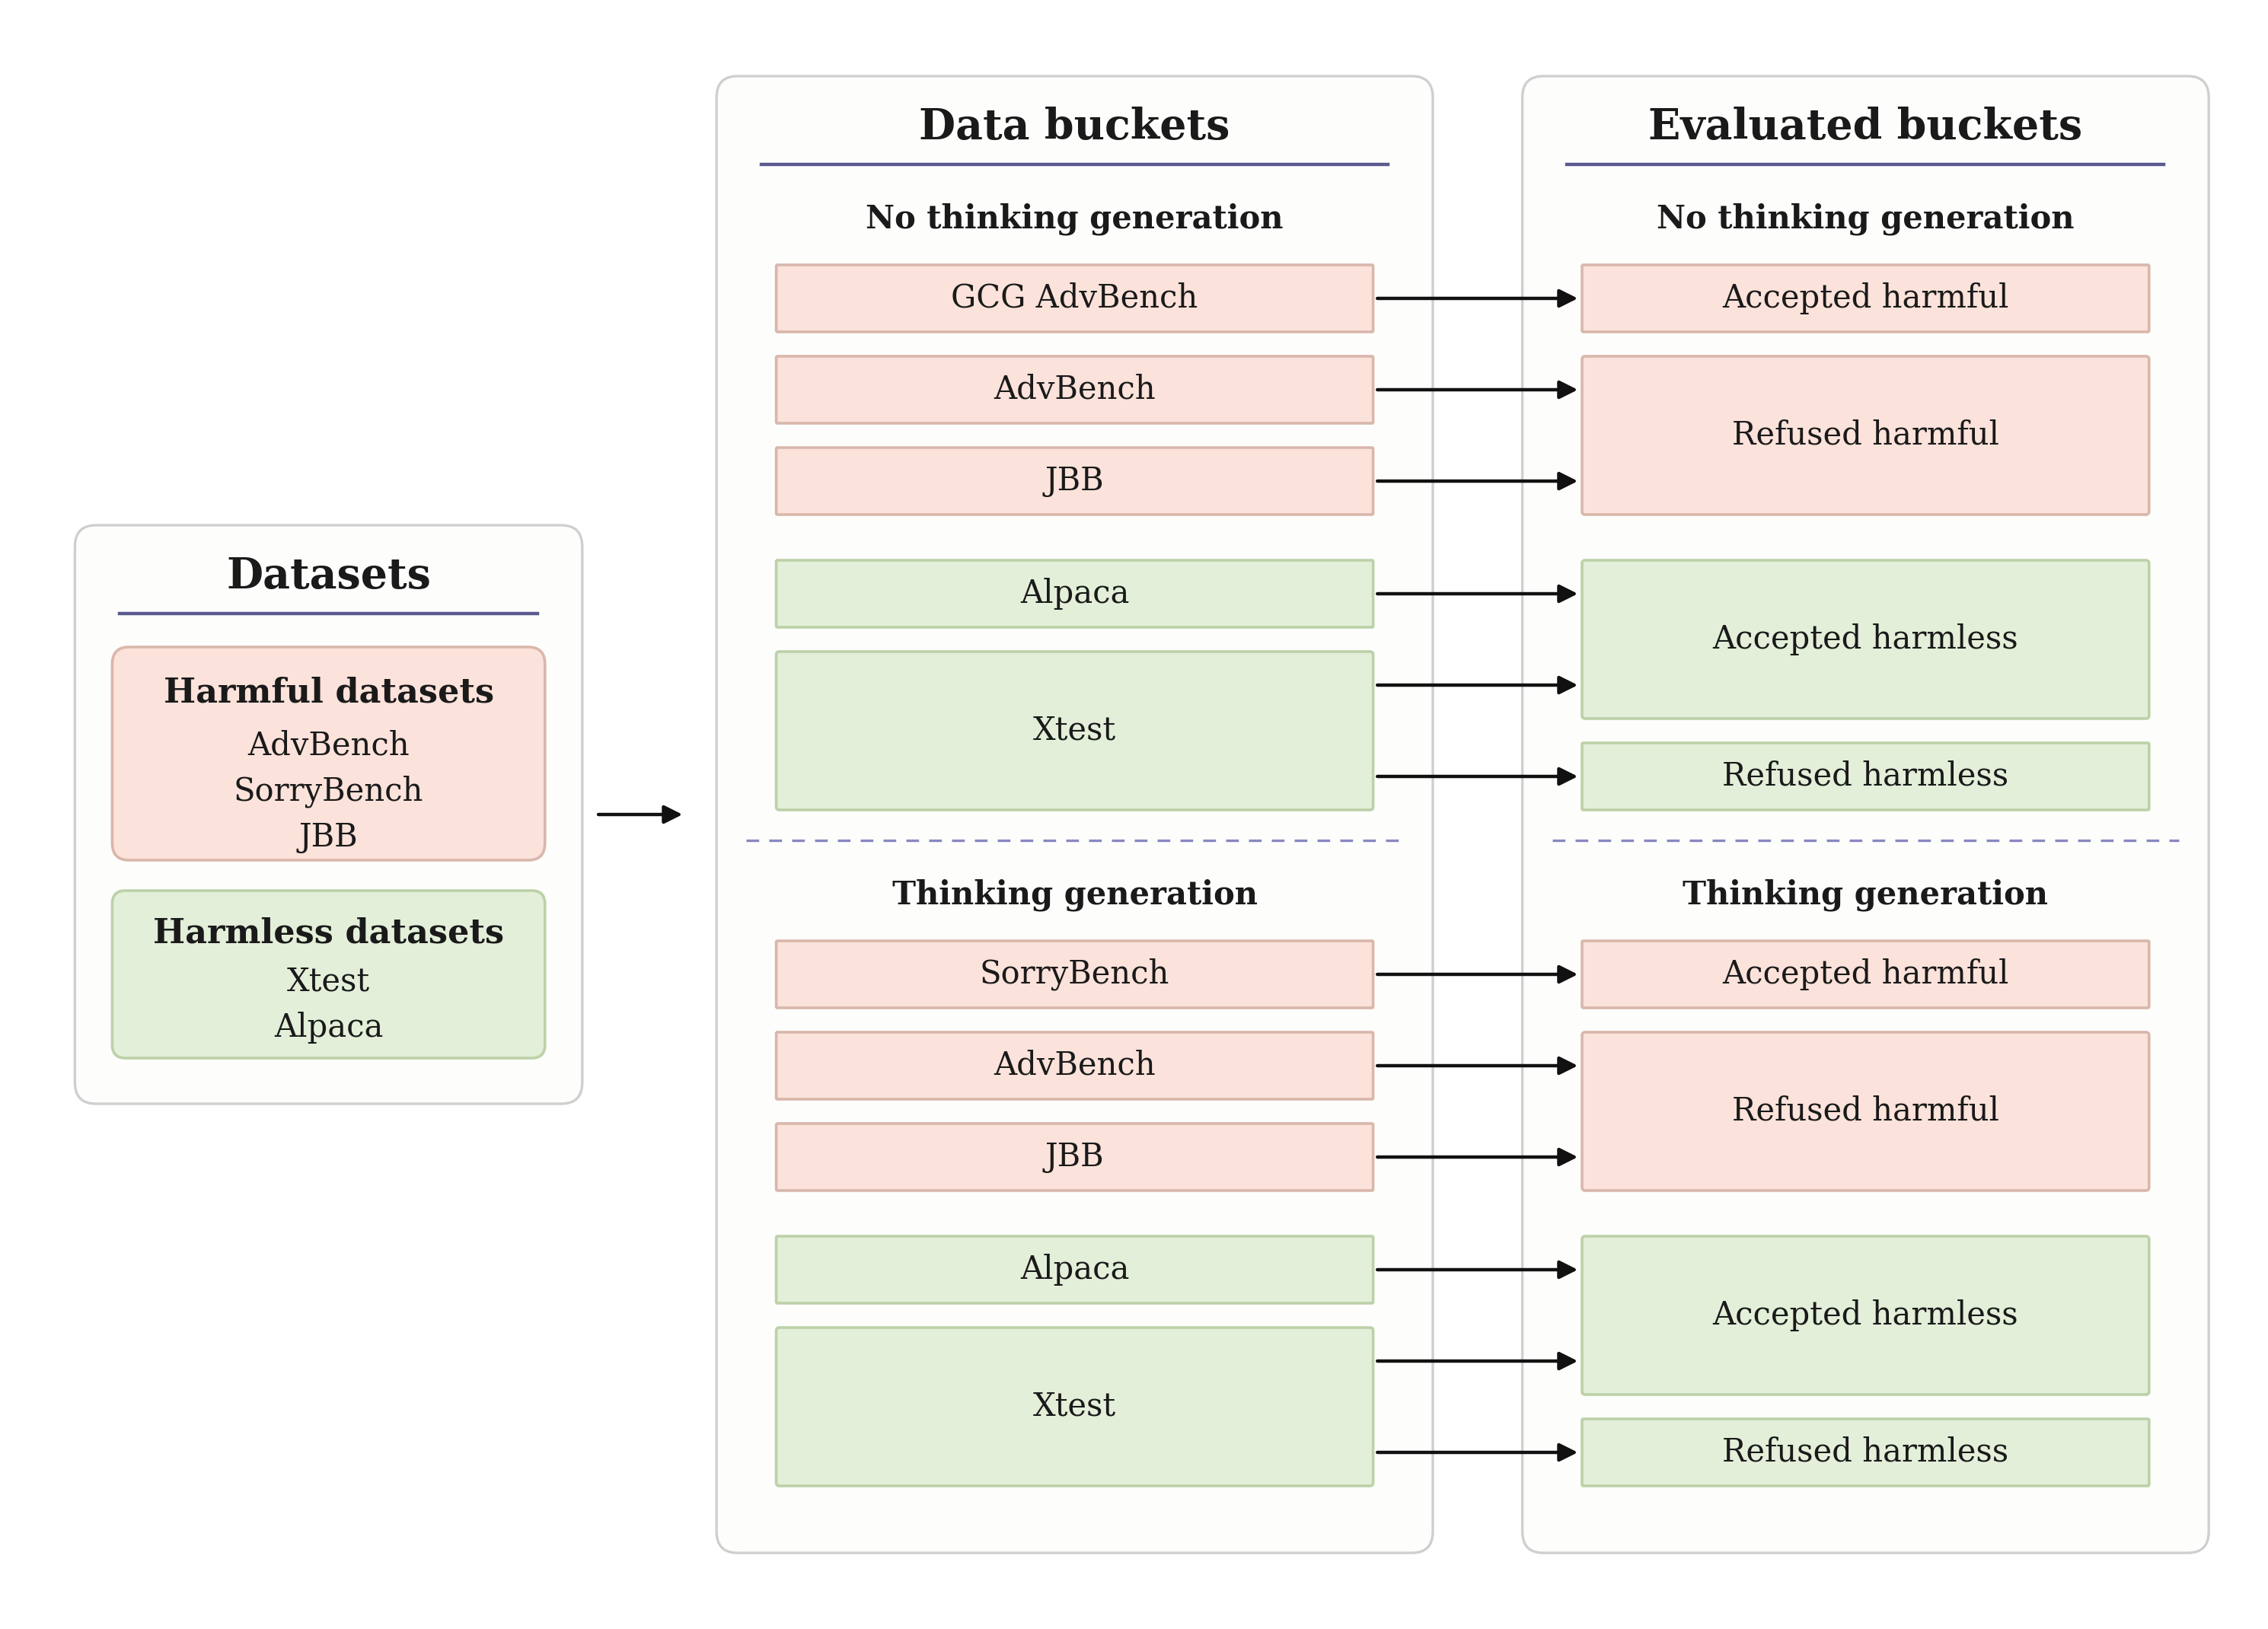
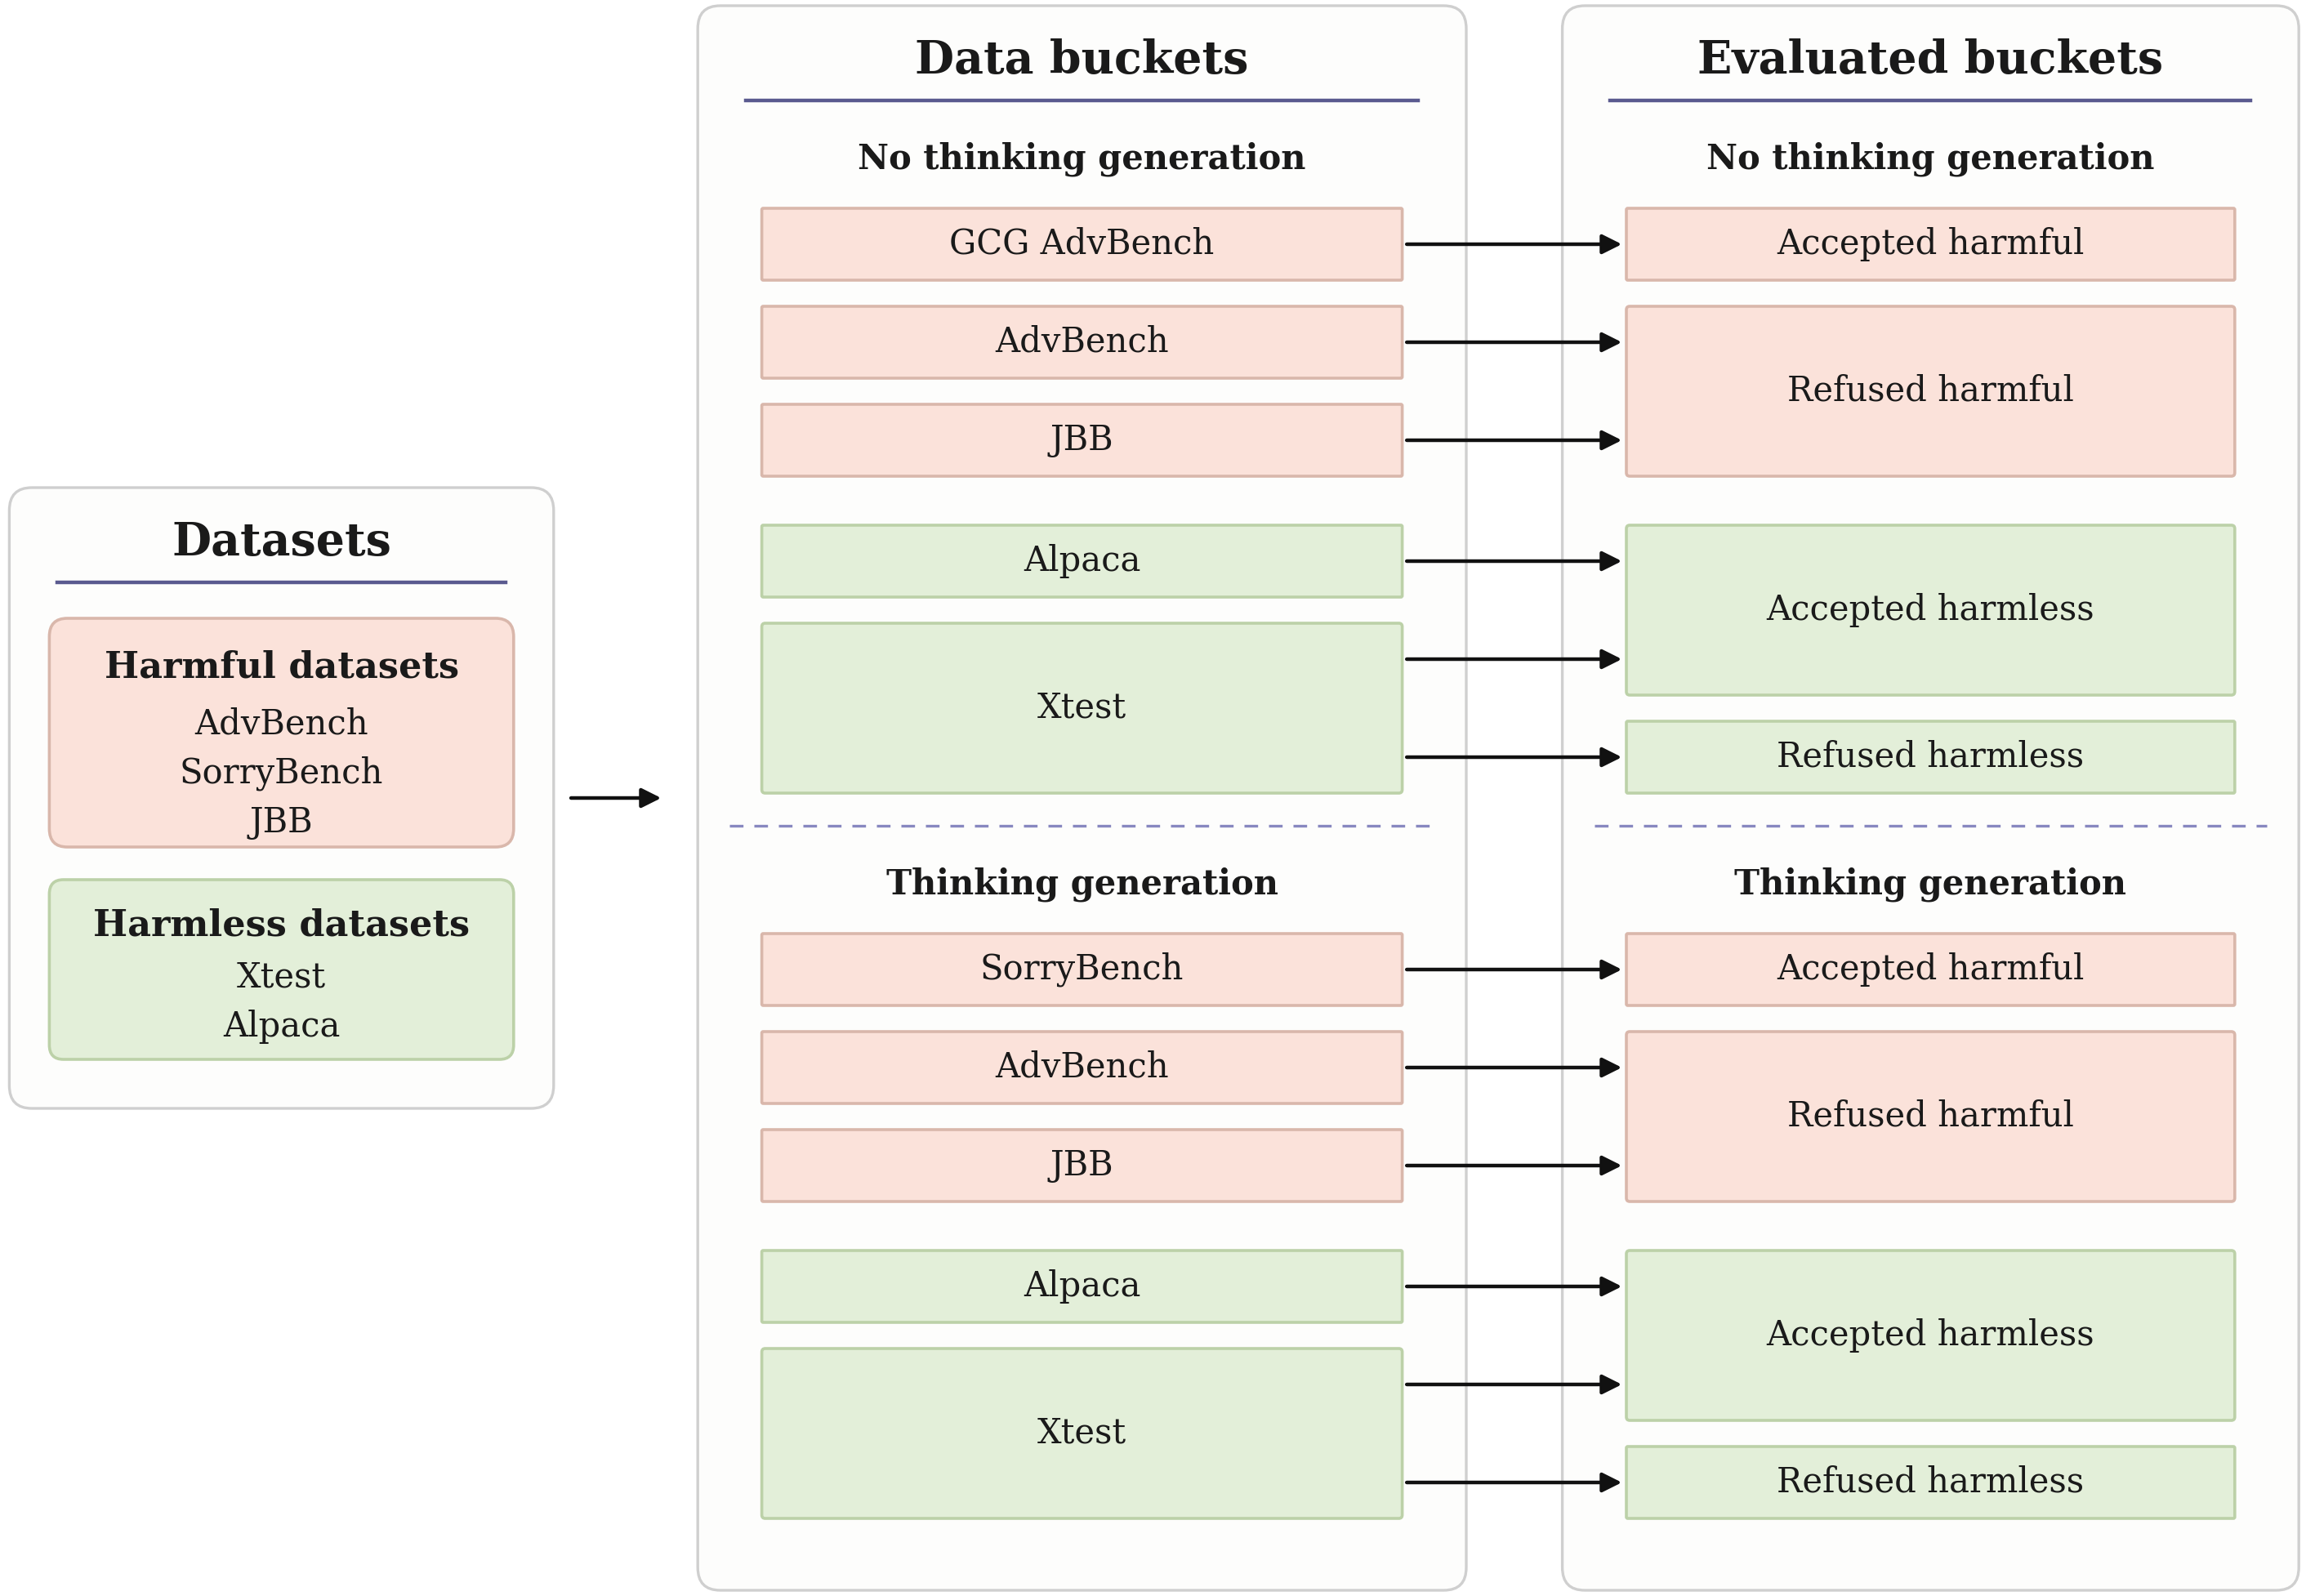
update report

diff --git a/report/example_paper.tex b/report/example_paper.tex
@@ -11,6 +11,23 @@
 \usepackage{graphicx}
 \usepackage{subfigure}
 \usepackage{booktabs} % for professional tables
+\usepackage{tikz}
+
+% Keep appendix floats from drifting onto mostly empty pages.
+\renewcommand{\topfraction}{0.95}
+\renewcommand{\dbltopfraction}{0.95}
+\renewcommand{\textfraction}{0.05}
+\renewcommand{\floatpagefraction}{0.8}
+\renewcommand{\dblfloatpagefraction}{0.8}
+\setcounter{topnumber}{5}
+\setcounter{dbltopnumber}{5}
+\setcounter{totalnumber}{8}
+\setlength{\textfloatsep}{8pt plus 2pt minus 2pt}
+\setlength{\dbltextfloatsep}{8pt plus 2pt minus 2pt}
+\setlength{\floatsep}{6pt plus 2pt minus 2pt}
+\clubpenalty=10000
+\widowpenalty=10000
+\displaywidowpenalty=10000
 
 % hyperref makes hyperlinks in the resulting PDF.
 % If your build breaks (sometimes temporarily if a hyperlink spans a page)
@@ -54,8 +71,8 @@
 
 % Todonotes is useful during development; simply uncomment the next line
 %    and comment out the line below the next line to turn off comments
-%\usepackage[disable,textsize=tiny]{todonotes}
-\usepackage[textsize=tiny]{todonotes}
+\usepackage[disable,textsize=tiny]{todonotes}
+%\usepackage[textsize=tiny]{todonotes}
 \usetikzlibrary{arrows.meta}
 
 
@@ -91,13 +108,12 @@
 
 
 \begin{abstract}
-Recent work suggests that safety behavior in language models is not governed by a single latent signal: models can encode whether a request is harmful separately from whether they refuse it. We study whether this separation persists in reasoning or ``thinking'' models, where a chain of thought intervenes between the user request and the final answer. Across Qwen3.5 thinking, non-thinking, and stripped-template settings, we find that refusal behavior remains strong on harmful prompts while harmless over-refusal remains low. At the representation level, the harmfulness/refusal lens continues to organize model behavior, but refusal-related information is less cleanly localized at a single post-instruction boundary and instead interacts with think-template and reasoning positions. These results suggest that harmfulness/refusal separation remains useful for reasoning models, while simple single-token accounts of refusal become incomplete.
+Recent work suggests that safety behavior in language models is not governed by a single latent signal: models can encode whether a request is harmful separately from whether they refuse it. We study whether this separation persists in reasoning models, where a chain of thought intervenes between the user request and the final answer. Across Qwen3.5 thinking, non-thinking, and stripped-template settings, we find that refusal behavior remains strong on harmful prompts while harmless over-refusal remains low. At the representation level, the harmfulness/refusal lens continues to organize model behavior, but refusal-related information is less cleanly localized at a single post-instruction boundary and instead interacts with think-template and reasoning positions. These results suggest that harmfulness/refusal separation remains useful for reasoning models, while simple single-token accounts of refusal become incomplete.
 \end{abstract}
 
 \section{Introduction}
 
-Safety-aligned large language models (LLMs) are expected to answer benign requests while refusing harmful ones. Failures in either direction matter: under-refusal creates unsafe compliance, while over-refusal blocks useful benign requests \citep{wang2024surgical, maskey2026overrefusal}. Prior work often assumes that harmfulness is encoded by the
-refusal direction \citep{arditi2024refusal}, but Zhao J. showed that LLMs encode harmfulness and refusal separately on instruct models \citep{zhao2025harmfulness}. 
+Safety-aligned large language models (LLMs) are expected to answer benign requests while refusing harmful ones. Failures in either direction matter: under-refusal creates unsafe compliance, while over-refusal blocks useful benign requests \citep{wang2024surgical, maskey2026overrefusal}. Prior work often treats harmfulness as closely tied to the refusal direction \citep{arditi2024refusal}. In contrast, \citet{zhao2025harmfulness} show that LLMs encode harmfulness and refusal separately in instruct models.
 
 Instruct models are trained to expect a chat template in order to recognize messages; Figure \ref{fig:tokens} illustrates the chat template for different configurations on Qwen3.5 \citep{qwen35}. In this setting, the authors define $t_{\text{inst}}$ as the last token of the user query, and $t_{\text{post-inst}}$ as the last token of the prompt tokens. After finding that stripping the $t_{\text{post-inst}}$ token induces 22\% more accepted harmful queries, the authors conducted several experiments to show that the $t_{\text{inst}}$ token's activations encode harmfulness to a greater magnitude, whereas the $t_{\text{post-inst}}$ token encodes refusal to a greater magnitude. It was later causally shown that these two directions are distinct \citep{zhao2025harmfulness}.
 
@@ -112,40 +128,43 @@ Instruct models are trained to expect a chat template in order to recognize mess
 
 Reasoning models make this picture less straightforward. A thinking model may identify harmfulness early, reason about policy or intent during its CoT, and only later decide how to answer. This raises the question we study: \textbf{does harmfulness/refusal separation still hold in thinking models, and where does refusal live once reasoning tokens are introduced?} 
 
-For this matter, we search on thinking models on two different generation configurations: generation with a reasoning trace and generation without reasoning trace. Figure \ref{fig:tokens} rows a and b show the tokenizer template for these two configurations.
+We therefore evaluate thinking models under two generation configurations: generation with a reasoning trace and generation without a reasoning trace. Figure~\ref{fig:tokens} shows the tokenizer template for these configurations.
+
+\section{Related Work}
+
+\textbf{Activation steering and refusal directions.} Work on activation steering shows that behaviorally meaningful directions can be extracted from hidden states and used to modify model behavior without retraining \citep{turner2023activation, rimsky2024steering}. In safety settings, \citet{arditi2024refusal} show that refusal in chat models can often be mediated by a single residual-stream direction. This provides a natural starting point for studying refusal as a geometric object in activation space.
+
+\textbf{Harmfulness, refusal, and over-refusal.} Our work directly builds on \citet{zhao2025harmfulness}, who argue that harmfulness and refusal are encoded separately rather than as a single safety axis. Related work complicates the geometry of refusal: refusal may occupy a concept cone or multiple directions rather than one vector \citep{wollschlager2025geometry, joad2026more}, and over-refusal can be task-dependent even when harmful refusal is comparatively low-dimensional \citep{wang2024surgical, maskey2026overrefusal}.
+
+\textbf{Reasoning models and CoT safety.} Recent work suggests that reasoning changes the refusal mechanism. \citet{yamaguchi2026where} show that where and whether reasoning models refuse depends on CoT content, and \citet{yang2026beyond} find that simple refusal steering becomes less reliable once CoT is fixed. Other work shows that reasoning can create new jailbreak surfaces or alter safety decisions during generation \citep{yong2026selfjailbreaking, zhao2026cothijacking, refusalcliff2025}. These findings motivate analyzing not only prompt-boundary tokens, but also thinking and answer-boundary positions.
+
+\textbf{Monitoring reasoning.} Finally, probe-based monitoring work asks whether unsafe final behavior can be predicted before a model finishes thinking \citep{predictalignment2025}. Steering-vector analyses of reasoning behavior more broadly also suggest that latent directions can reveal structure inside thinking models \citep{venhoff2025understanding}.
 
 
 \section{Datasets and Setup}
 
-In this section, we explain our experiments' datasets and configuration.
+To evaluate how reasoning traces alter the geometry of safety representations, we establish an evaluation pipeline across multiple dataset configurations. This setup allows us to empirically decouple the underlying recognition of intent from the subsequent generation of behavioral refusal.
 
-We first reproduced the original paper's experiments on Qwen2-7B \citep{yang2024qwen2} and Llama3-8B \citep{dubey2024llama3}. After that, we ran our experiments on Qwen3.5-9B. We use the sampling configuration recommended for the Qwen3.5 model family \citep{qwen35}. For the judge model, we use Qwen3.5-4B, with few-shot examples containing thinking traces to reduce overthinking \citep{qwen35}.
+We first reproduce the original paper's experiments on Qwen2-7B \citep{yang2024qwen2} and Llama3-8B \citep{dubey2024llama3}. We then run our main experiments on Qwen3.5-9B. We use the sampling configuration recommended for the Qwen3.5 model family \citep{qwen35}. For the judge model, we use Qwen3.5-4B, with few-shot examples containing thinking traces to reduce overthinking \citep{qwen35}.
 
-In order to extract the harmful and refusal activations, we collect 3 datasets containing harmful queries: AdvBench \citep{zou2023universal}, SorryBench \citep{xie2025sorrybench} and JBB \citep{chao2024jailbreakbench}, and 2 datasets containing harmless queries: XSTest \citep{rottger2024xstest} and Alpaca \citep{taori2023alpaca}. After that, we conduct the two-step pipeline shown in Figure \ref{fig:datasets}:
-
-\begin{figure*}[t]
-\centering
-\includegraphics[width=0.75\textwidth]{figures/dataset.png}
-\caption{Two-step dataset configuration pipeline for the experiments. The datasets are first subject to a manual bucketing based on thinking or non-thinking generation, and then classified using a programmatic and later LLM-judged approach. Red buckets represent datasets containing harmful queries, whereas green buckets represent datasets containing harmless queries.}
-\label{fig:datasets}
-\end{figure*}
+To extract harmfulness and refusal activations, we collect three datasets containing harmful queries: AdvBench \citep{zou2023universal}, SorryBench \citep{xie2025sorrybench}, and JailbreakBench (JBB) \citep{chao2024jailbreakbench}; and two datasets containing harmless queries: XSTest \citep{rottger2024xstest} and Alpaca \citep{taori2023alpaca}. We then apply the two-step pipeline shown in Figure~\ref{fig:datasets} in the appendix.
 
 \textbf{Dataset manual bucketing}. The datasets are first combined according to their behavior (harmful or harmless) and generation configuration (thinking or non-thinking).
 
 \textbf{Response evaluation}. After running the datasets' queries through the model, the generated responses are classified as refused (the model refused to answer due to safety concerns) or accepted (the model answered the query). The responses are first evaluated with a direct match against a common refusal sentence list, following prior refusal-direction evaluations \citep{arditi2024refusal, zhao2025harmfulness}. After this, a judge model evaluates only the opposing behavior buckets, which are more likely to be misclassified (accepted harmful and refused harmless buckets).
 
-We base our manual bucketing on the following basis: \emph{(i)} Qwen3.5 has been trained with extensive safety alignment, so unlike the instruct model experiments, the model refuses almost all queries, so we compute a GCG jailbreak \citep{zou2023universal} on the non-thinking generation with an ASR of 34\% using nanoGCG \citep{nanogcg2025} to get genuine harmful responses; \emph{(ii)} for the thinking generation, we use SorryBench, which contains soft-harmful queries that violate the model's safety guardrails but might not be as obscene as AdvBench and JBB; \emph{(iii)} for refused harmless responses, we only use XSTest because it contains harmful-looking harmless examples which might trick the model into a refusal.
+We base our manual bucketing on three observations: \emph{(i)} Qwen3.5 has been trained with extensive safety alignment, so unlike the instruct model experiments, it refuses almost all harmful queries; to obtain accepted harmful responses in the non-thinking setting, we therefore compute a GCG jailbreak \citep{zou2023universal} with an ASR of 34\% using nanoGCG \citep{nanogcg2025}; \emph{(ii)} for thinking generation, we use SorryBench, which contains soft-harmful queries that violate safety guardrails but are less explicit than AdvBench and JBB; \emph{(iii)} for refused harmless responses, we only use XSTest because it contains harmful-looking harmless examples that can trigger over-refusal.
 
 
 \section{Methodology}
 
-In this section we present the experiments 
+We now introduce our framework for isolating and measuring safety-relevant internal states within reasoning architectures. Building upon the geometric analysis proposed for standard instruct models \citep{zhao2025harmfulness}, we adapt the computation of concept representation scores to account for the extended token trajectories introduced by explicit internal chains of thought.
 
-\paragraph{Behavioral buckets.} We group examples by both prompt type and observed behavior: accepted harmful, refused harmful, accepted harmless, and refused harmless. These buckets let us distinguish whether a representation tracks input harmfulness, output refusal, or a mixture of both.
+\textbf{Behavioral buckets} We group examples by both prompt type and observed behavior: accepted harmful, refused harmful, accepted harmless, and refused harmless. These buckets let us distinguish whether a representation tracks input harmfulness, output refusal, or a mixture of both.
 
-\paragraph{Harmfulness and refusal scores.} Following the original paper, we compute cosine-difference scores between bucket means. The harmfulness score contrasts harmful and harmless anchors, while the refusal score contrasts refused and accepted anchors. For non-reasoning models these scores are naturally measured at $t_{\text{inst}}$ and $t_{\text{post-inst}}$. For thinking models, we extend this to a 25-slot layout covering the instruction boundary, think-template tokens, sampled CoT positions, the \texttt{</think>} boundary, and early answer tokens.
+\textbf{Harmfulness and refusal scores.} Following the original paper, we compute cosine-difference scores between bucket means. The harmfulness score contrasts harmful and harmless anchors, while the refusal score contrasts refused and accepted anchors. For non-reasoning models these scores are naturally measured at $t_{\text{inst}}$ and $t_{\text{post-inst}}$. For thinking models, we extend this to a 25-slot layout covering the instruction boundary, think-template tokens, sampled CoT positions, the \texttt{</think>} boundary, and early answer tokens.
 
-\paragraph{Figures 2 and 3.} Figure~2-style plots test where safety-relevant information is localized across layers and token positions. Figure~3-style plots test whether harmfulness and refusal behave as separate axes: if they are separable, accepted harmful examples should be high on harmfulness but low on refusal, while refused harmless examples should be low on harmfulness but high on refusal.
+\textbf{Figures 2 and 3.} Figure~2-style plots test where safety-relevant information is localized across layers and token positions. Figure~3-style plots test whether harmfulness and refusal behave as separate axes: if they are separable, accepted harmful examples should be high on harmfulness but low on refusal, while refused harmless examples should be low on harmfulness but high on refusal.
 
 \section{Experiments}
 
@@ -163,44 +182,71 @@ A smaller post-token stripping diagnostic on Qwen3.5-0.8B also does not support 
 
 Figure~\ref{fig:fig2-thinking} shows the Figure~2-style score across the thinking layout. This figure should be interpreted primarily as localization evidence: it shows where the representation resembles refused-harmful versus accepted-harmless anchors across layers and token positions. In the original paper, the relevant positions are mainly $t_{\text{inst}}$ and $t_{\text{post-inst}}$; in the thinking setting, comparable structure appears across think-template and answer-boundary positions as well. Thus, Figure~2 supports the claim that safety-relevant information remains present, but is distributed over more positions in reasoning models.
 
-\begin{figure*}[t]
-\centering
-\includegraphics[width=0.8\textwidth]{figures/qwen35_figure2_think_judge.png}
-\caption{Figure~2-style score curves for Qwen3.5-9B in the thinking setting. The multi-slot layout extends the original $t_{\text{inst}}$/$t_{\text{post-inst}}$ analysis to prompt, think-template, CoT, \texttt{</think>}, and answer positions.}
-\label{fig:fig2-thinking}
-\end{figure*}
-
 \subsection{Figure 3: Harmfulness and Refusal Remain Separable Axes}
 
 Figure~\ref{fig:fig3-thinking} provides the stronger evidence for separability. The $x$-axis measures harmfulness, while the $y$-axis measures refusal. A single monolithic safety direction would tend to collapse harmfulness and refusal into one axis. Instead, behavior categories can separate along the two dimensions: accepted harmful examples can retain high harmfulness while having low refusal, and refused harmless examples can show refusal without corresponding harmfulness. This is the key evidence that harmfulness and refusal are encoded separately. The thinking-model result therefore supports the original paper's conceptual claim, while also showing that the token positions carrying refusal are less localized than in non-reasoning models.
 
-\begin{figure*}[t]
-\centering
-\includegraphics[width=0.5\textwidth]{figures/qwen35_figure3_think.png}
-\caption{Figure~3-style harmfulness/refusal scatter for Qwen3.5-9B in the thinking setting. The two axes separate input harmfulness from refusal behavior, supporting the claim that the concepts are represented separately rather than as one monolithic safety signal.}
-\label{fig:fig3-thinking}
-\end{figure*}
+\subsection{Intervention Replication Provides Partial Causal Evidence}
+
+We also inspected a separate intervention replication implemented on Qwen-7B, which follows the original paper's reply-inversion setup. In this experiment, harmfulness and refusal steering vectors are computed from Qwen-7B activations and injected layer-by-layer while the model is asked to answer with an inverted binary response. The clearest effect appears on harmful instructions: steering along the refusal direction produces a sharp increase in refusal rate in middle layers, reaching nearly complete refusal around layers 16--18, while reverse-refusal and reverse-harmfulness interventions remain much weaker. This provides partial causal support that the refusal direction can affect the model's refusal decision independently of the harmfulness direction. The harmless-instruction and no-inversion runs are less diagnostic because refusal rates remain high across most interventions, so we treat this as an auxiliary replication rather than a central result. The full intervention plot is included in Appendix~\ref{sec:appendix-interventions}.
 
 \subsection{Auxiliary Projection Probes Track CoT Dynamics}
 
 The projection probes provide a complementary contribution: instead of only asking where the prompt-boundary representations lie, they track how steering directions interact with the generated reasoning process itself. Across the Qwen3-thinking layer sweep, CoT is preserved in all inspected modes, but inversion-style settings shorten the generated reasoning trace relative to non-inversion settings. The same runs show strong layer dependence in the $t_{\text{inst}}$ and $t_{\text{post-inst}}$ projection scores, especially in later layers. This supports the broader thesis of the report: once a model reasons before answering, harmfulness/refusal analysis should include not only static prompt positions but also the trajectory and length of the reasoning process. We include the detailed CoT-length and projection-score plots in Appendix~\ref{sec:appendix-cot-probes}.
 
 \section{Conclusions}
+
+We study whether the separation between harmfulness and refusal identified in instruct models also appears in reasoning models. Our results suggest that the high-level distinction remains useful: Qwen3.5-9B continues to refuse harmful prompts at high rates across thinking, non-thinking, and stripped-template generation modes, while the two-axis representation analysis still separates examples by harmfulness and refusal behavior. In particular, the Figure~3-style scatter provides evidence that harmfulness recognition and refusal are not reducible to a single monolithic safety signal.
+
+At the same time, reasoning models change where this information appears. Compared with the original prompt-boundary analysis, refusal-related structure is less cleanly tied to one post-instruction token and instead appears across think-template, CoT, and answer-boundary positions. This suggests that extending safety mechanistic analysis to thinking models requires tracking both token position and generation regime, not only the final answer. The auxiliary intervention, jailbreak, and CoT-projection analyses further indicate that different attack or reasoning configurations can move examples through the harmfulness/refusal plane in distinct ways, making the two-axis geometry a useful diagnostic beyond clean harmful and harmless prompts.
+
 \section{Limitations}
 
-\section{Related Work}
+Our experiments are limited in model coverage. The main thinking-model results focus on Qwen3.5-9B, with a smaller stripping diagnostic on Qwen3.5-0.8B and reproduction experiments on Qwen2-7B and Llama3-8B. This is enough to test whether the original framework transfers to one modern thinking-model family, but it does not establish that the same localization patterns hold across all reasoning models, model scales, or chat templates.
 
-\paragraph{Activation steering and refusal directions.} Work on activation steering shows that behaviorally meaningful directions can be extracted from hidden states and used to modify model behavior without retraining \citep{turner2023activation, rimsky2024steering}. In safety settings, \citet{arditi2024refusal} show that refusal in chat models can often be mediated by a single residual-stream direction. This provides a natural starting point for studying refusal as a geometric object in activation space.
+The labeling pipeline is also imperfect. We combine refusal-string matching with judge-corrected labels because thinking traces can contain refusals, policy discussion, or uncertainty before the final answer. This reduces obvious misclassification, but judge labels and heuristic refusal lists are still noisy. The jailbreak compliance audit in the appendix should therefore be read as a sanity check rather than a definitive safety evaluation.
 
-\paragraph{Harmfulness, refusal, and over-refusal.} Our work directly builds on \citet{zhao2025harmfulness}, who argue that harmfulness and refusal are encoded separately rather than as a single safety axis. Related work complicates the geometry of refusal: refusal may occupy a concept cone or multiple directions rather than one vector \citep{wollschlager2025geometry, joad2026more}, and over-refusal can be task-dependent even when harmful refusal is comparatively low-dimensional \citep{wang2024surgical, maskey2026overrefusal}.
-
-\paragraph{Reasoning models and CoT safety.} Recent work suggests that reasoning changes the refusal mechanism. \citet{yamaguchi2026where} show that where and whether reasoning models refuse depends on CoT content, and \citet{yang2026beyond} find that simple refusal steering becomes less reliable once CoT is fixed. Other work shows that reasoning can create new jailbreak surfaces or alter safety decisions during generation \citep{yong2026selfjailbreaking, zhao2026cothijacking, refusalcliff2025}. These findings motivate analyzing not only prompt-boundary tokens, but also thinking and answer-boundary positions.
-
-\paragraph{Monitoring reasoning.} Finally, probe-based monitoring work asks whether unsafe final behavior can be predicted before a model finishes thinking \citep{predictalignment2025}. Steering-vector analyses of reasoning behavior more broadly also suggest that latent directions can reveal structure inside thinking models \citep{venhoff2025understanding}.
-
+Finally, the auxiliary intervention, projection-probe, and jailbreak analyses are exploratory. The Qwen-7B intervention replication follows the original reply-inversion setup rather than the Qwen3.5-thinking setup used for our main representation figures. The Qwen3-thinking CoT diagnostics also use a related but not identical direction-extraction setup, and the projection scores are best interpreted as evidence of layer-dependent behavior rather than proof of causal separability. Similarly, the persona, GCG, and persuasion jailbreak plots compare prompt families geometrically but do not isolate every mechanism by which those prompts affect generation. A stronger follow-up would recompute all directions under a unified protocol, expand to more samples and models, and pair the representation analysis with causal interventions and human-validated safety labels.
 
 \appendix
 \section{Auxiliary Analyses}
+
+\subsection{Dataset Pipeline and Main Representation Figures}
+
+\begin{figure*}[!t]
+\centering
+\includegraphics[width=0.6\textwidth]{figures/dataset.png}
+\caption{Two-step dataset configuration pipeline for the experiments. The datasets are first subject to a manual bucketing based on thinking or non-thinking generation, and then classified using a programmatic and later LLM-judged approach. Red buckets represent datasets containing harmful queries, whereas green buckets represent datasets containing harmless queries.}
+\label{fig:datasets}
+\end{figure*}
+
+\begin{figure*}[!t]
+\centering
+\includegraphics[width=0.8\textwidth]{figures/qwen35_figure2_think_judge.png}
+\caption{Score curves for Qwen3.5-9B in the thinking setting. The multi-slot layout extends the original $t_{\text{inst}}$/$t_{\text{post-inst}}$ analysis to prompt, think-template, CoT, \texttt{</think>}, and answer positions.}
+\label{fig:fig2-thinking}
+\end{figure*}
+
+\begin{figure}[!t]
+\centering
+\includegraphics[width=\columnwidth]{figures/qwen35_figure3_think.png}
+\caption{Harmfulness/refusal scatter for Qwen3.5-9B in the thinking setting. The two axes separate input harmfulness from refusal behavior, supporting the claim that the concepts are represented separately rather than as one monolithic safety signal.}
+\label{fig:fig3-thinking}
+\end{figure}
+
+\subsection{Qwen-7B Intervention Replication}
+\label{sec:appendix-interventions}
+
+The intervention repository contains an auxiliary replication of the original paper's causal reply-inversion experiment on Qwen-7B. The steering vectors are computed from cached activations with shape $(L,N,T,H)=(29,N,6,3584)$. The harmfulness vector is the difference between harmful and harmless activations at $t_{\text{inst}}$, while the refusal vector is the analogous difference at $t_{\text{post-inst}}$. During reply inversion, the harmfulness direction is applied to context tokens before the inversion question, whereas the refusal direction is applied to all input tokens, matching the token-scope distinction described in the original setup.
+
+\Cref{fig:appendix-intervention-fig5} plots refusal rate across intervention layers after pooling 500-example runs over harmless instructions (Alpaca and XSTest-Harmless) and harmful instructions (AdvBench and JailbreakBench). The harmful-instruction panel is the most informative: applying the refusal direction produces a strong mid-layer peak, with refusal rates approaching 100\% around layers 16--18. In contrast, reverse-refusal and reverse-harmfulness interventions generally remain low, aside from smaller layer-specific bumps. This supports the idea that the refusal vector has a causal effect that is not identical to the harmfulness vector. The harmless-instruction panel remains near saturation for all strategies, so it is less useful for distinguishing mechanisms in this run.
+
+\begin{figure*}[!t]
+\centering
+\includegraphics[width=0.7\textwidth]{figures/qwen7b_intervention_figure5.png}
+\caption{Auxiliary Qwen-7B intervention replication. Refusal rates are measured under the reply-inversion task while intervening at one layer at a time. The harmful-instruction panel shows a clear mid-layer effect from the refusal direction, whereas the harmless-instruction panel is near saturation across strategies.}
+\label{fig:appendix-intervention-fig5}
+\end{figure*}
 
 \subsection{Jailbreak Geometry}
 
@@ -212,12 +258,12 @@ The evil-persona prompts form a very different cluster. They have negative $\Del
 
 The GCG suffix prompts are more heterogeneous. Some points lie near the template-jailbreak region with low or negative refusal, while others retain positive refusal. This spread suggests that suffix optimization does not create one uniform latent effect; instead, individual suffixes can push the model into different harmfulness/refusal regimes. The persuasion prompts mostly occupy the lower-left region, with negative $\Delta$ harmful and negative $\Delta$ refuse, consistent with many responses becoming non-refusal diversions rather than direct harmful compliance. Overall, the scatter supports using the two-axis harmfulness/refusal geometry to compare jailbreak mechanisms, not only clean harmful and harmless prompts.
 
-\begin{figure*}[t]
+\begin{figure}[!t]
 \centering
-\includegraphics[width=0.5\textwidth]{figures/section4_jailbreak_scatter.png}
+\includegraphics[width=0.88\columnwidth]{figures/section4_jailbreak_scatter_new.png}
 \caption{Exploratory jailbreak geometry for Qwen-7B. Refused-harmful baseline prompts are plotted alongside template jailbreaks, evil-persona prompts, GCG suffixes, and persuasion prompts. The attack families occupy distinct regions of the harmfulness/refusal plane.}
 \label{fig:appendix-jailbreak-scatter}
-\end{figure*}
+\end{figure}
 
 \begin{table}[t]
 \caption{Heuristic harmful-compliance audit for the jailbreak prompt families in \cref{fig:appendix-jailbreak-scatter}. The evaluator separates explicit refusals, benign diversions, and responses that appear to continue addressing the original harmful request. These labels are a sanity-check audit rather than a substitute for human or LLM judging.}
@@ -246,18 +292,17 @@ Persuasion & 50 & 8 & 31 & 11 \\
 
 We also include an exploratory layer sweep from a separate Qwen3-thinking probe. For each intervened layer, we measured whether a chain of thought was produced, its length, and projection scores onto harmfulness/refusal directions at $t_{\text{inst}}$ and $t_{\text{post-inst}}$. This diagnostic complements the main token-slot analysis by showing how inversion-style interventions co-vary with both CoT length and layer-wise projection scores. In the summarized runs, non-inversion settings produce longer CoTs on average, while inversion settings shorten the reasoning trace for both harmfulness and refusal probes. This gives a direct way to connect activation steering, reasoning length, and the internal harmfulness/refusal coordinates.
 
-\begin{figure*}[t]
+\begin{figure*}[!t]
 \centering
-\includegraphics[width=0.75\textwidth]{figures/data_probe_cot_length.png}
-\caption{Exploratory CoT-length diagnostics under inversion and non-inversion settings. Inversion settings produce shorter CoTs on average than non-inversion settings for both harmfulness and refusal probes.}
-\label{fig:appendix-cot-length}
-\end{figure*}
-
-\begin{figure*}[t]
-\centering
-\includegraphics[width=0.75\textwidth]{figures/data_probe_layer_sweep.png}
-\caption{Exploratory projection-score layer sweep for harmfulness and refusal probes. Scores vary strongly by layer, especially in later layers, suggesting that steering effects are layer-dependent rather than uniform across the network.}
-\label{fig:appendix-projection-sweep}
+\subfigure[CoT length.]{
+  \includegraphics[width=0.72\textwidth]{figures/data_probe_cot_length.png}
+}
+\vskip 0.04in
+\subfigure[Layer-wise projections.]{
+  \includegraphics[width=0.82\textwidth]{figures/data_probe_layer_sweep.png}
+}
+\caption{Exploratory CoT and projection diagnostics. Inversion settings produce shorter CoTs on average than non-inversion settings, while projection scores vary strongly by layer, especially in later layers.}
+\label{fig:appendix-cot-diagnostics}
 \end{figure*}
 
 \section*{Citations and References}